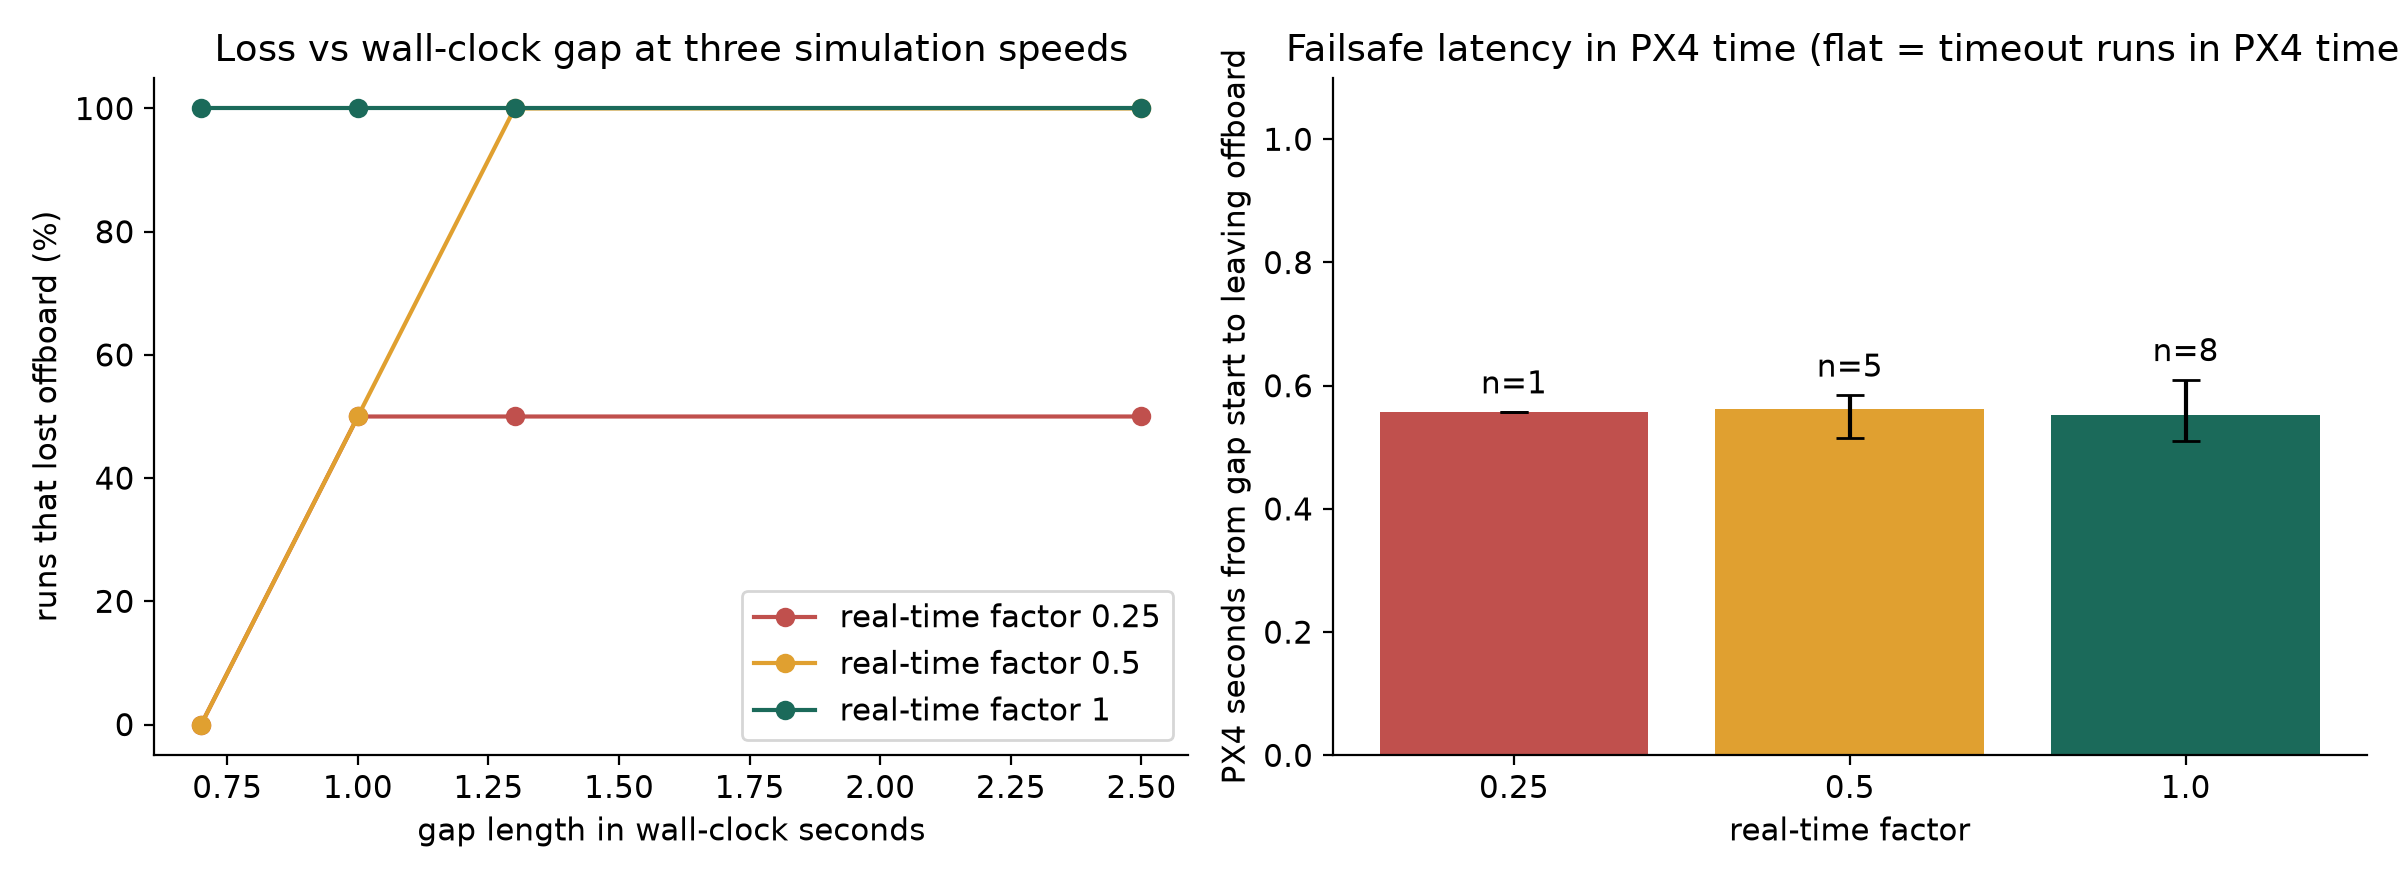
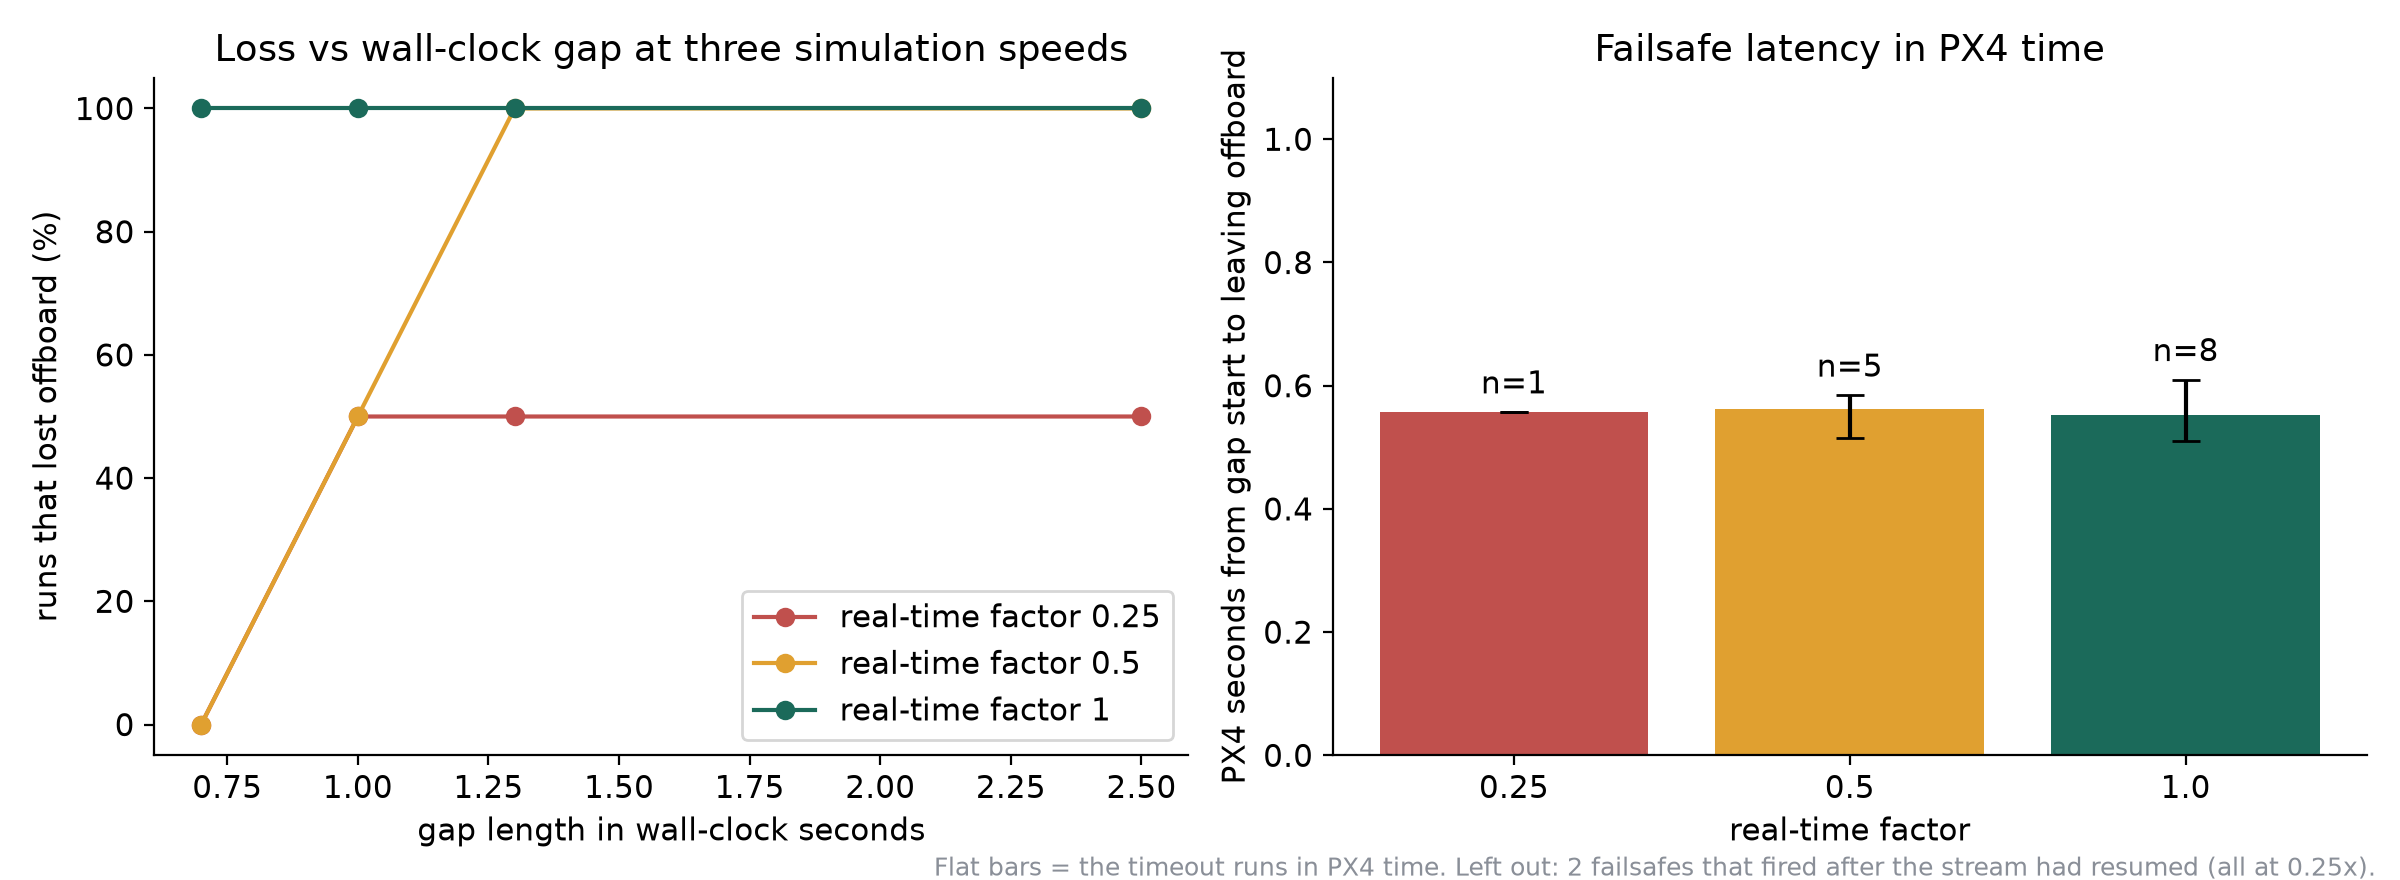
Fix speed figure title and note excluded runs

Changed region(s): [[0.5312, 0.0307, 1.0, 0.092], [0.375, 0.9818, 1.0, 1.0]]

diff --git a/study/analyze.py b/study/analyze.py
@@ -111,7 +111,10 @@ def figures(df, d, fd):
             bx.text(i, row['max'] + 0.03, f"n={int(row['count'])}", ha='center')
         bx.set_ylim(0, 1.1)
         bx.set_xlabel('real-time factor'); bx.set_ylabel('PX4 seconds from gap start to leaving offboard')
-        bx.set_title('Failsafe latency in PX4 time (flat = timeout runs in PX4 time)')
+        bx.set_title('Failsafe latency in PX4 time')
+        late = rt[rt.offboard_lost & (rt.failsafe_latency_s > rt.gap_len + 0.15)]
+        fig.text(0.99, 0.005, f'Flat bars = the timeout runs in PX4 time. Left out: {len(late)} failsafes that fired after the '
+                 'stream had resumed (all at 0.25x).', ha='right', fontsize=9, color=GREY)
         fig.tight_layout(); fig.savefig(os.path.join(fd, 'fig3_realtime_factor.png'), dpi=200); plt.close(fig)
 
     ex = os.path.join(d, 'demo.csv')
